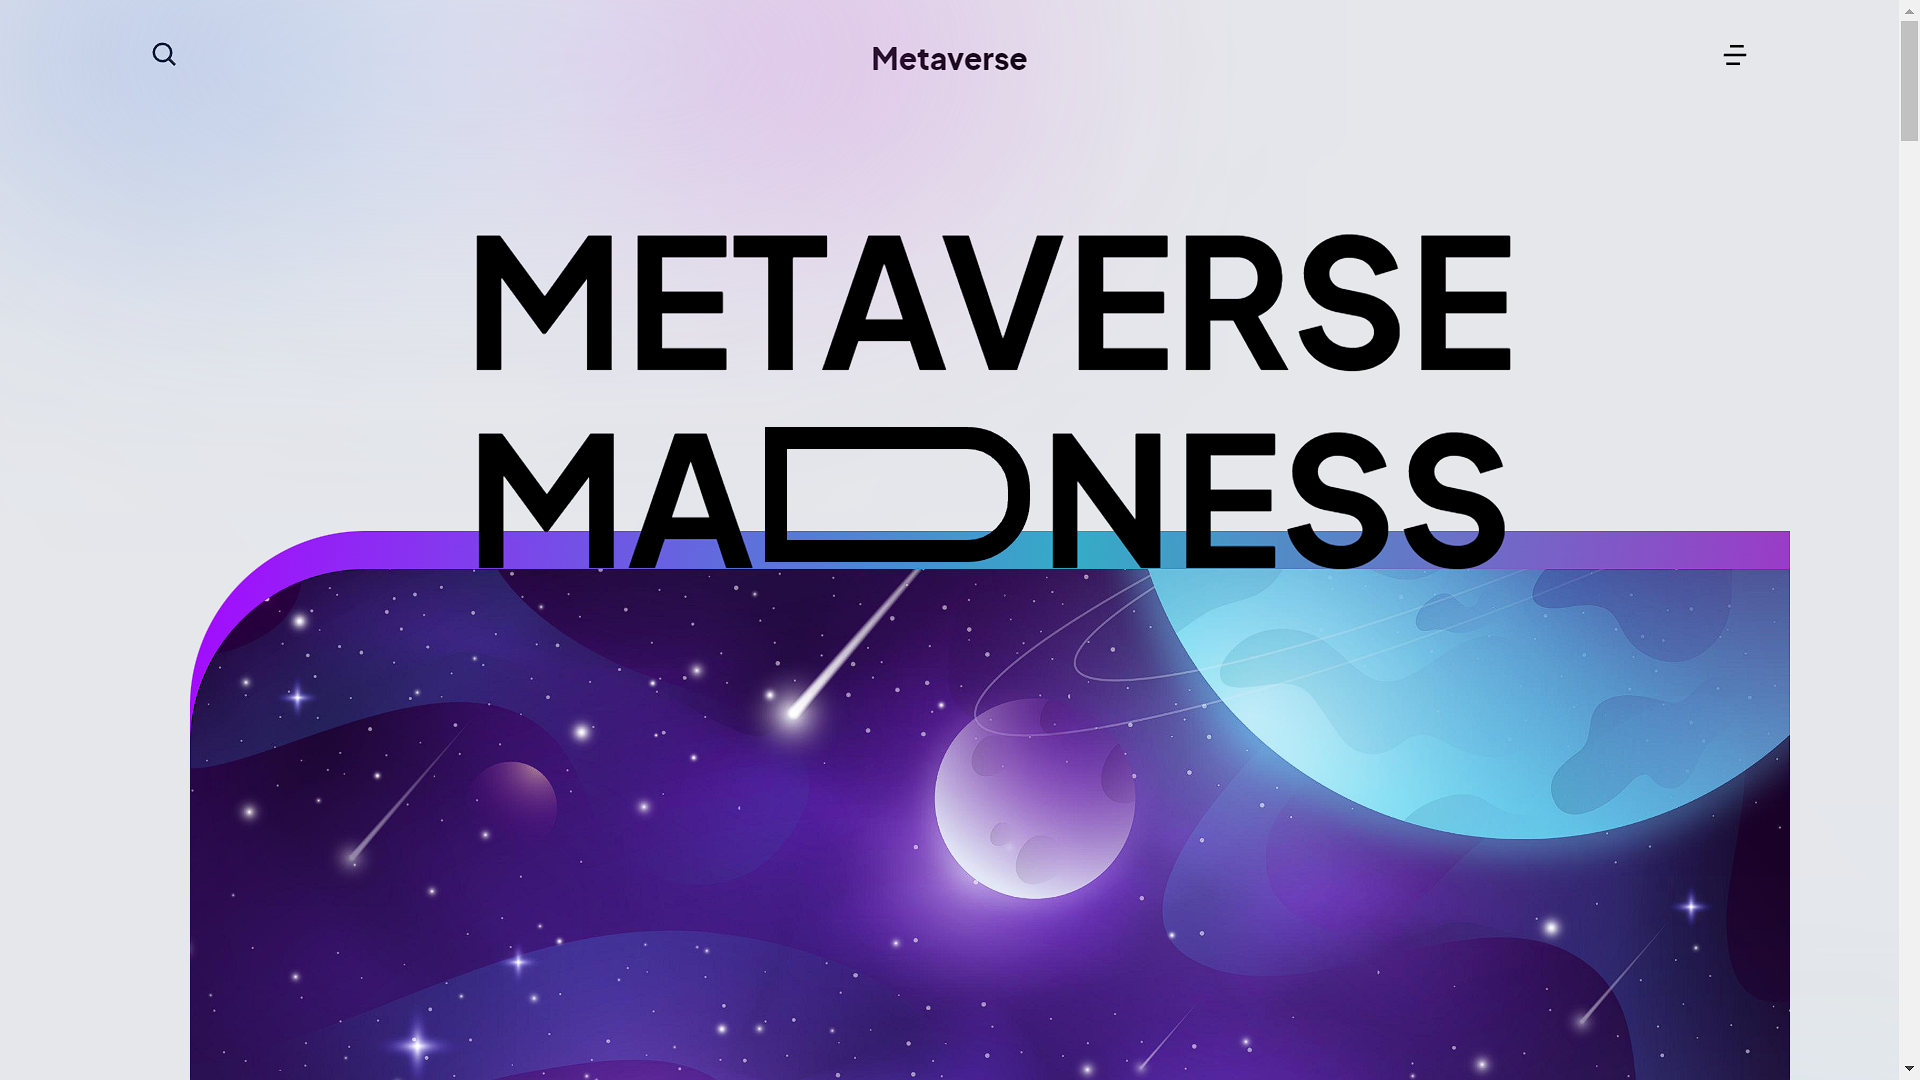
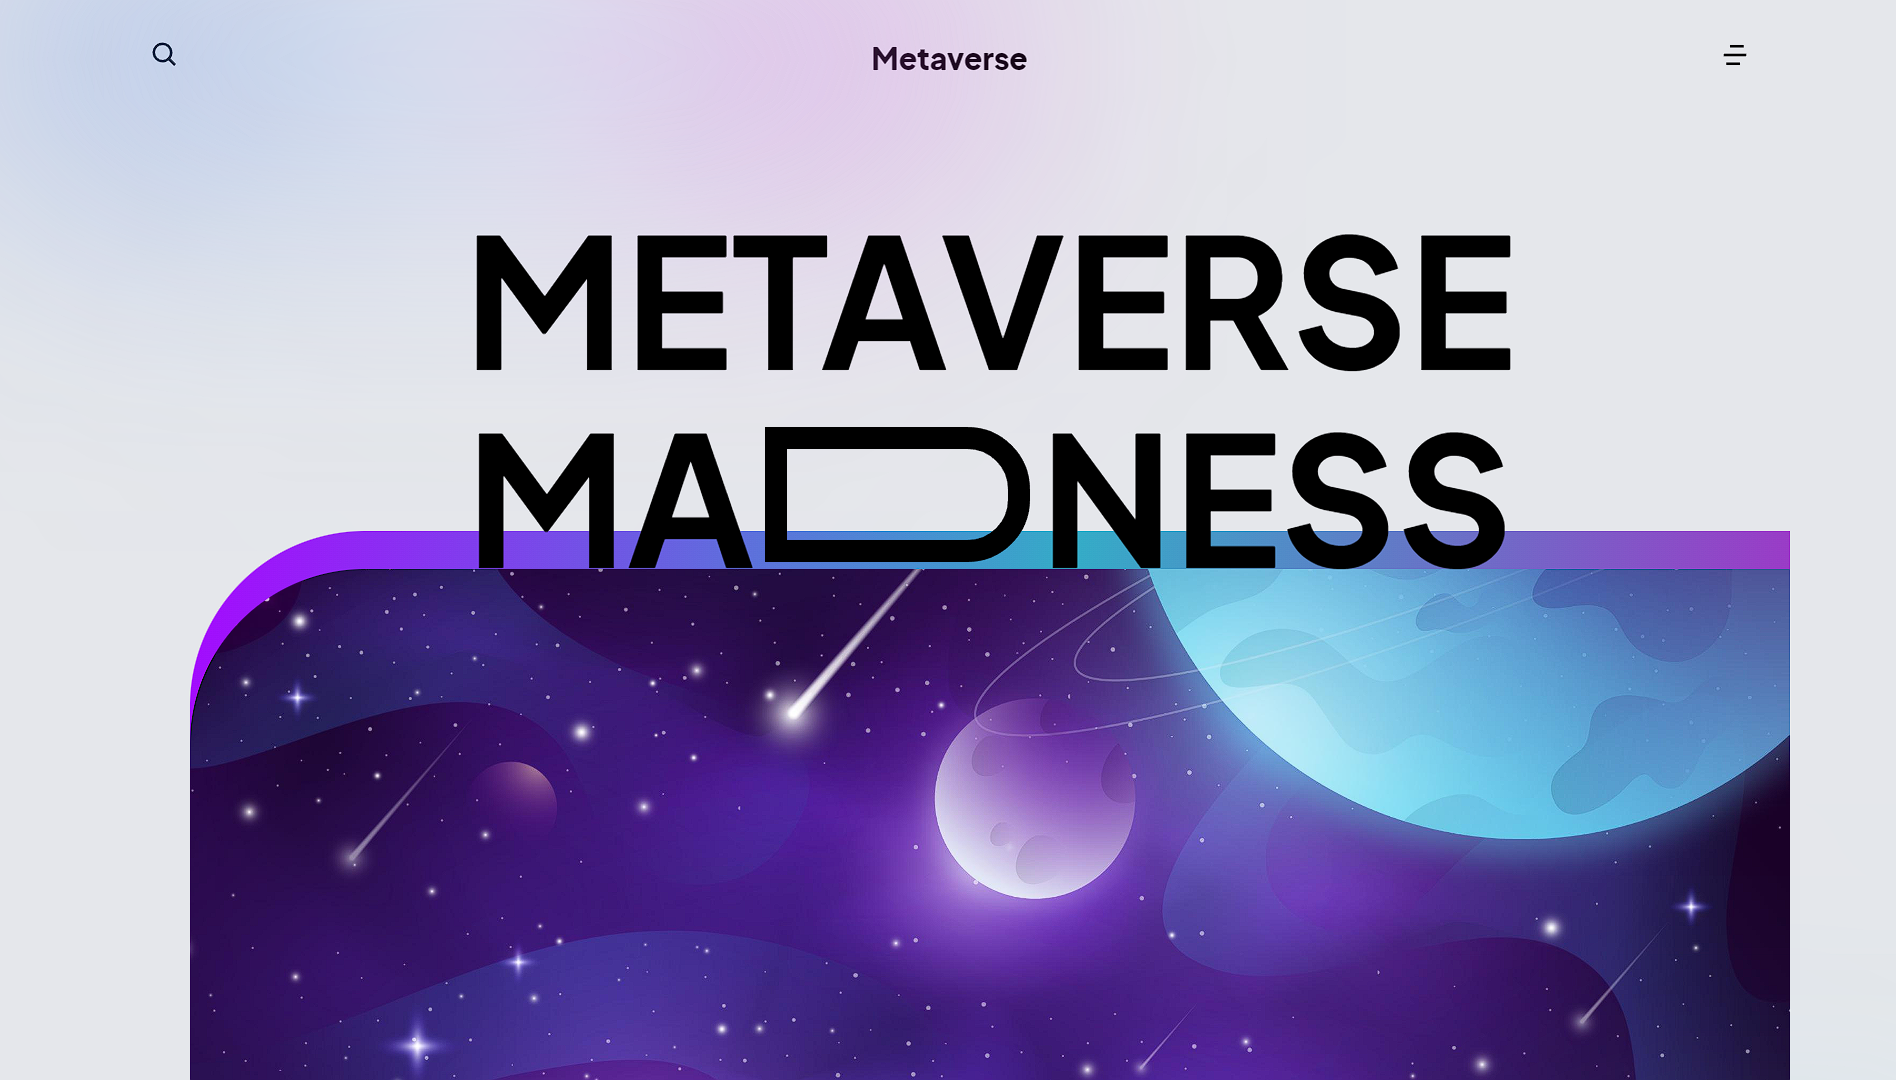
'changes'

diff --git a/app/myProject.jsx b/app/myProject.jsx
@@ -59,6 +59,7 @@ function myProject() {
                   title={project.name}
                   desc={project.description}
                   liveSite={project.url}
+                  github={project.github}
                 />
               )
             }) : active === 'Fullstack' ? projects?.map((project, index) => {
@@ -70,6 +71,7 @@ function myProject() {
                     title={project.name}
                     desc={project.description}
                     liveSite={project.url}
+                    github={project.github}
                   />
                 )
               }
@@ -82,6 +84,7 @@ function myProject() {
                     title={project.name}
                     desc={project.description}
                     liveSite={project.url} 
+                    github={project.github}
                   />
                 )
               }
@@ -94,6 +97,7 @@ function myProject() {
                     title={project.name}
                     desc={project.description}
                     liveSite={project.url} 
+                    github={project.github}
                   />
                 )
               }

diff --git a/app/globals.css b/app/globals.css
@@ -498,32 +498,34 @@ body *,
     width: 250px !important;
   }
   .gradient-01 {
-    background-image: linear-gradient(
+    background: linear-gradient(
       350deg,
       hsl(0, 76%, 51%) 0%,
-      hsl(284deg,70%,73%) 26%,
+      hsl(282deg,60%,71%) 26%,
       hsl(257deg 70% 86%) 39%,
       hsl(202deg 92% 90%) 50%,
       hsl(215deg 77% 81%) 61%,
       hsl(221deg 73% 70%) 74%,
       hsl(220deg 76% 51%) 100%
     );
+   
     filter: blur(125px);
   }
 }
 
 @media (min-width: 768px) {
   .gradient-011 {
-    background-image: linear-gradient(
+    background: linear-gradient(
       270deg,
       hsl(0, 76%, 51%) 0%,
-      hsl(284deg 70% 73%) 26%,
+      hsl(282, 60%, 71%) 26%,
       hsl(257deg 70% 86%) 39%,
       hsl(202deg 92% 90%) 50%,
       hsl(215deg 77% 81%) 61%,
       hsl(221deg 73% 70%) 74%,
       hsl(220deg 76% 51%) 100%
     );
+    
     filter: blur(125px);
   }
 }

diff --git a/utils/data.jsx b/utils/data.jsx
@@ -1,9 +1,18 @@
 export const projects = [
     {
         "id": "Frontend",
-        "url": "https://metaverse-sheikgulf13.vercel.app/",
+        "url": "https://metaverse-phi-pied.vercel.app/",
+        "github": "https://github.com/sheikgulf13/Metaverse",
         "name": "Metaverse",
-        "description": "dhbvlksdjvbujvl;dvbkjsdfvbkljbviusfhv;sjdvbjdfn kdfn ;aj k klb lfkbjhb",
+        "description": "Explore the virtual madness",
         "image": "./Metaverse.png"
+    },
+    {
+        "id": "Frontend",
+        "url": "https://lando-zeta.vercel.app/",
+        "github": "https://github.com/sheikgulf13/Lando",
+        "name": "Lando",
+        "description": "Optimize your business operations with Lando",
+        "image": "./Lando.png"
     },
 ]

diff --git a/app/NavBar.jsx b/app/NavBar.jsx
@@ -23,7 +23,8 @@ function NavBar() {
   const changeBackground = () => {
     if(typeof window !== undefined && window.scrollY >= 80) {
       setNavbar(true)
-    } else {
+    }
+    else {
       setNavbar(false)
     }
   }

diff --git a/utils/motion.jsx b/utils/motion.jsx
@@ -1,7 +1,7 @@
 export const navVariants = {
     hidden: {
       opacity: 0,
-      y: -68,
+      y: -60,
       transition: {
         type: 'spring',
         stiffness: 300,
